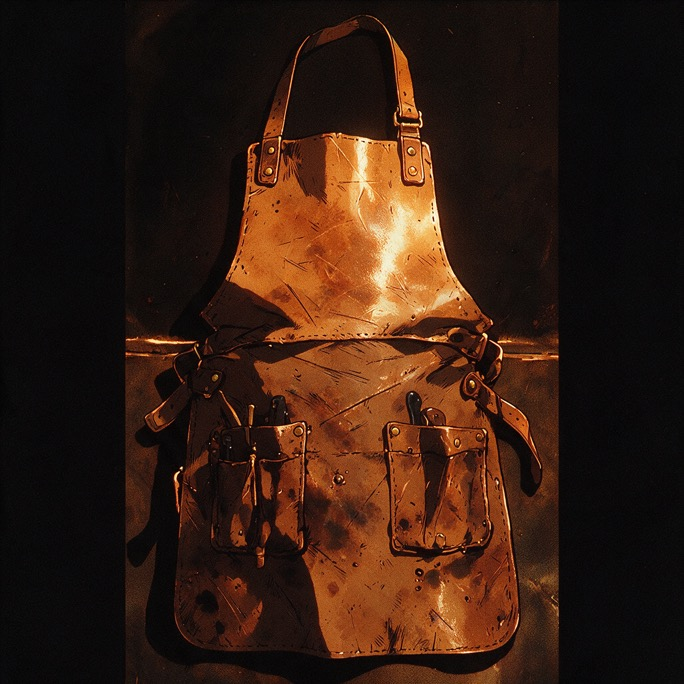
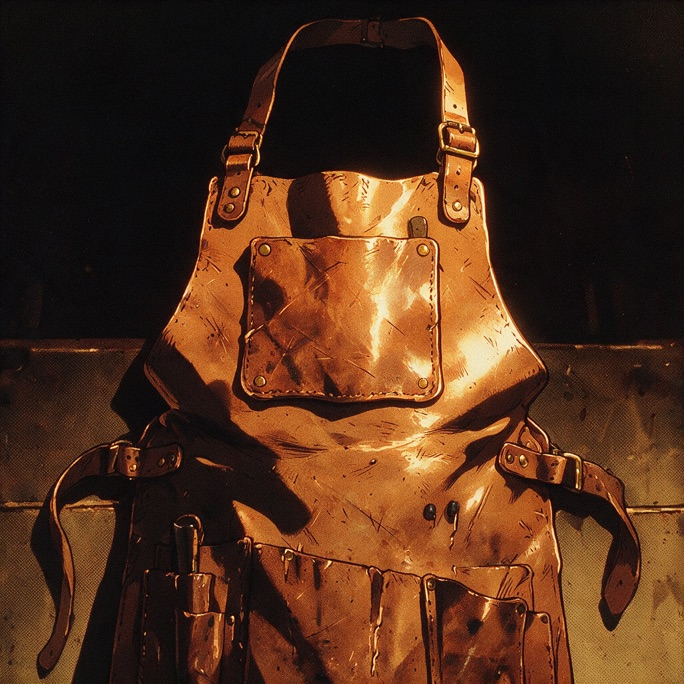
전투/PvP 개편 + 장비손실 연출 + 신규 아트
- 카드 뒷면 4종 배선(monster/item/flee/pvp_back)
- 장비 손실 연출: 글리치 제거 → 붉은 비네트 + Silk 잠식(raw WebGL 포팅, mountLossFx)
- PvP 상단 전투 카드: 콜드데이터 상대 수치 마스킹(HP ???·스탯 ??)
- PvP 승리 드로우: 항상 3장 + 뒤집을 때 pvp_win_reward_rate로 전리품 판정
- PvP 패배 = 사망 처리(귀환 실패·비장착 가방 소실), 패배 시 사토 몰수(0)
- 사망(몬스터·PvP) 귀환 시 체력 1로 생존
- PvP 하단 결과 박스 pill 시스템(box-pvp-draw)
- 신규/갱신 아트 5종(flee-Failed·가죽앞치마·모자·조끼·무기)

diff --git a/rl.dc.html b/rl.dc.html
@@ -49,6 +49,7 @@
   @keyframes rlHitFlash{0%{opacity:0}10%{opacity:1}100%{opacity:0}}
   @keyframes rlShakeScreen{0%{transform:translate(0,0)}14%{transform:translate(-6px,4px)}28%{transform:translate(6px,-4px)}42%{transform:translate(-5px,3px)}58%{transform:translate(4px,-2px)}74%{transform:translate(-2px,1px)}100%{transform:translate(0,0)}}
   @keyframes rlVignette{0%{opacity:0}18%{opacity:1}100%{opacity:0}}
+  /* --- PvP 패배: 아이템 강탈 — 붉은 비네트 + Silk 잠식은 JS/WebGL(mountLossFx)로 구동 --- */
   @keyframes rlDmgFloat{0%{opacity:0;transform:translate(-50%,8px) scale(.6)}14%{opacity:1;transform:translate(-50%,-2px) scale(1.15)}32%{opacity:1;transform:translate(-50%,-9px) scale(1)}100%{opacity:0;transform:translate(-50%,-36px) scale(1)}}
   @keyframes rlCritPop{0%{opacity:0;transform:translate(-50%,6px) scale(.4)}14%{opacity:1;transform:translate(-50%,-5px) scale(1.55)}34%{opacity:1;transform:translate(-50%,-13px) scale(1.15)}100%{opacity:0;transform:translate(-50%,-46px) scale(1.05)}}
   @keyframes rlMiss{0%{opacity:0;transform:translate(-50%,5px)}22%{opacity:1;transform:translate(-50%,-4px)}78%{opacity:.9;transform:translate(-50%,-11px)}100%{opacity:0;transform:translate(-50%,-18px)}}
@@ -324,7 +325,7 @@ class Component extends DCLogic {
         c.ups = this.eng.applyGrowth(this.gs, res.triggers);
         const full=this.eng.playerProfile(this.gs,false); this.gs.maxHp=full.maxHp;
         this.setupPvpReward(); c.phase='pvpWin';
-      } else if(res.winner==='monster'){ this.setupPvpFlee(); c.phase='pvpLose'; }
+      } else if(res.winner==='monster'){ c.satoGained=0; this.setupPvpFlee(); c.phase='pvpLose'; }  // PvP 패배 = 이번 출정 사토 몰수(사망과 동일)
       else { c.phase='timeout'; }
       this.forceUpdate(); return;
     }
@@ -361,6 +362,7 @@ class Component extends DCLogic {
   addToBag(id, qty, opts){ return this.stackAdd(this.gs.bag, id, qty, opts); }
   extract(){ if(this.combat && !this.combat.satoPaid){ this.gs.sato+=this.eng.N(this.combat.satoGained,0); this.combat.satoPaid=true; } this.setState({ screen:'result' }); this.combat.result='extract'; if(this._t){clearInterval(this._t);this._t=null;} this.forceUpdate(); }
   death(){
+    this.gs.hp = 1;   // 사망(몬스터·PvP) 귀환 시 체력 1로 생존
     // 소지품(bag)은 전부 잃되, 착용 중인 장비는 유지된다
     this.gs.bag = this.gs.bag.filter(x=>this.isEquipped(x.uid));
     const eq = [this.gs.equip.weapon,this.gs.equip.head,this.gs.equip.body,this.gs.equip.artifact1,this.gs.equip.artifact2].filter(Boolean);
@@ -710,17 +712,19 @@ class Component extends DCLogic {
       h('div',{style:{fontFamily:T.mono,fontSize:10,letterSpacing:'.14em',color:T.faint,margin:'2px 0'}}, 'STAT'),
       ...rows.map((r,i)=>h('div',{key:i,style:{display:'flex',gap:16}}, cell(r[0],r[1],r[2]), cell(r[3],r[4],r[5]))));
   }
-  combatStats(prof,pen){
+  combatStats(prof,pen,masked){
     const vc=pen?'#CB6D62':T.hi;
-    const cell=(k,v)=>h('div',{style:{flex:1,display:'flex',justifyContent:'space-between',gap:8,minWidth:0}}, h('span',{style:{color:T.lo}},k), h('span',{style:{color:vc}},v));
+    const V=(x)=>masked?'??':x;
+    const cell=(k,v)=>h('div',{style:{flex:1,display:'flex',justifyContent:'space-between',gap:8,minWidth:0}}, h('span',{style:{color:T.lo}},k), h('span',{style:{color:masked?T.mid:vc,letterSpacing:masked?'.06em':'normal'}},v));
     return h('div',{style:{display:'flex',flexDirection:'column',gap:6,fontFamily:T.mono,fontSize:11}},
-      h('div',{style:{display:'flex',gap:18}}, cell(this.t('stat_atk'), Math.round(prof.minAtk)+'~'+Math.round(prof.maxAtk)), cell(this.t('stat_def'), String(Math.round(prof.defense)))),
-      h('div',{style:{display:'flex',gap:18}}, cell(this.t('stat_atk_speed'), (prof.atkSpeed!=null?prof.atkSpeed:1).toFixed(1)), cell(this.t('stat_evasion'), Math.round(prof.evasion||0)+'%'))); }
+      h('div',{style:{display:'flex',gap:18}}, cell(this.t('stat_atk'), V(Math.round(prof.minAtk)+'~'+Math.round(prof.maxAtk))), cell(this.t('stat_def'), V(String(Math.round(prof.defense))))),
+      h('div',{style:{display:'flex',gap:18}}, cell(this.t('stat_atk_speed'), V((prof.atkSpeed!=null?prof.atkSpeed:1).toFixed(1))), cell(this.t('stat_evasion'), V(Math.round(prof.evasion||0)+'%')))); }
   combatantCard(prof,isMonster,cur,animate){
     const pct=Math.max(0,Math.min(100,cur/prof.maxHp*100));
     const md=isMonster?(this.eng.byId.monster[prof.id]||{}):null;
     const pen=!isMonster && this.combat && this.combat.staZero;
     const side=isMonster?'monster':'player';
+    const masked=isMonster && !!prof.isUser;   // PvP(콜드데이터) 상대 = 수치 마스킹
     const fx=(this.combat&&this.combat.fx&&this.combat.fx.target===side)?this.combat.fx:null;
     const isHit=!!fx&&(fx.type==='hit'||fx.type==='crit');
     return h('div',{style:{position:'relative'}},
@@ -744,8 +748,8 @@ class Component extends DCLogic {
           AT(prof.attribute)?this.statusChip(prof.attribute):null),
         h('div',{style:{display:'flex',alignItems:'center',gap:8,marginBottom:8}},
           h('div',{style:{flex:1,height:6,background:T.s3,borderRadius:99}}, h('div',{ref:el=>{ if(el && isHit && el._hp!==fx.seq){ el._hp=fx.seq; el.style.animation='none'; void el.offsetWidth; el.style.animation='rlHpGlow .5s ease-out'; } },style:{width:pct+'%',height:'100%',background:T.hp,borderRadius:99,transition:'width .3s ease-out'}})),
-          h('span',{style:{fontFamily:T.mono,fontSize:10,color:pen?'#CB6D62':T.mid,minWidth:56,textAlign:'right'}}, Math.round(cur)+'/'+prof.maxHp)),
-        this.combatStats(prof,pen))));
+          h('span',{style:{fontFamily:T.mono,fontSize:10,color:pen?'#CB6D62':T.mid,minWidth:56,textAlign:'right',letterSpacing:masked?'.06em':'normal'}}, masked?'???':(Math.round(cur)+'/'+prof.maxHp))),
+        this.combatStats(prof,pen,masked))));
   }
   combatElapsed(){ const c=this.combat; if(!c||!c.res) return 0; const r=c.res.log.slice(0,c.revealed); const last=r[r.length-1]; return last?last.t:0; }
   timeLimitBar(){ const c=this.combat; const lim=c.mProf.timeLimit||20; const rem=Math.max(0,lim-this.combatElapsed()); const pct=Math.max(0,Math.min(100,(rem/lim)*100));
@@ -1142,7 +1146,7 @@ col*=edgeFade(frag,uResolution,uOffset);col*=uIntensity;fragColor=vec4(clamp(col
               return h('div',{key:i,onClick:()=>{ if(this._moved||flipped) return; isCenter?this.flipCenter():this.focusCard(i); },
                 style:{position:'absolute',left:'50%',top:'50%',width:342,height:'min(473px, 100%)',transform:'translate(calc(-50% + '+x+'px), -50%) scale('+s+')',opacity:o,zIndex:isCenter?20:10-abs,transition:'transform .4s cubic-bezier(.16,1,.3,1),opacity .3s',cursor:flipped?'default':'pointer',perspective:'1200px',pointerEvents:(flipped&&!isCenter)?'none':'auto'}},
                 h('div',{style:{position:'relative',width:'100%',height:'100%',transformStyle:'preserve-3d',transition:'transform .55s cubic-bezier(.2,.8,.2,1)',transform:'rotateY('+rot+'deg)'}},
-                  h('div',{style:{position:'absolute',inset:0,backfaceVisibility:'hidden',WebkitBackfaceVisibility:'hidden',background:T.s2,backgroundImage:'repeating-linear-gradient(45deg, transparent 0 8px, oklch(0.235 0.008 264) 8px 9px)',border:'1px solid '+T.line2,borderRadius:8,boxShadow:'0 12px 36px rgba(0,0,0,.5)'}},
+                  h('div',{style:{position:'absolute',inset:0,backfaceVisibility:'hidden',WebkitBackfaceVisibility:'hidden',background:T.s2,backgroundImage:'url(assets/art/card_back/monster_back.jpg)',backgroundSize:'cover',backgroundPosition:'center',border:'1px solid '+T.line2,borderRadius:8,boxShadow:'0 12px 36px rgba(0,0,0,.5)'}},
                     isBossBack? h('div',{style:{position:'absolute',inset:0,pointerEvents:'none',borderRadius:8,animation:'rlBossTell 5.5s ease-in-out infinite'}}):null),
                   isCenter? h('div',{style:{position:'absolute',inset:0,backfaceVisibility:'hidden',WebkitBackfaceVisibility:'hidden',transform:'rotateY(180deg)',borderRadius:8,overflow:'hidden'}}, flipped?(c.pvp?this.userFront(c.mProf):this.monsterFront(c.mProf)):null):null)); })),
       h('div',{style:{flex:'0 0 auto',display:'flex',justifyContent:'center',gap:7,padding:'0 0 12px'}}, ...c.cards.map((id,i)=>h('div',{key:i,style:{width:7,height:7,borderRadius:99,background:i===c.cardFocus?'rgb(169,171,175)':'rgb(43,46,50)'}}))),
@@ -1198,7 +1202,7 @@ col*=edgeFade(frag,uResolution,uOffset);col*=uIntensity;fragColor=vec4(clamp(col
     h('div',{style:{position:'absolute',inset:0,background:'linear-gradient(180.32deg, rgba(24,25,29,0) 0.93%, rgb(17,19,21) 99.07%)',display:'flex',flexDirection:'column',justifyContent:'flex-end',padding:8,gap:4}},
       h('div',{style:{fontFamily:T.sans,fontSize:20,fontWeight:400,color:'rgb(234,235,238)',letterSpacing:'-0.2px',lineHeight:'100%'}}, placeTitle),
       h('div',{style:{fontFamily:T.mono,fontSize:10,letterSpacing:'1.2px',color:'rgb(111,114,118)',lineHeight:'100%'}}, 'ENCOUNTER · '+zoneName+' · '+(this.en()?('Encounter #'+(enc+1)):((enc+1)+'전 조우'))))); }
-  cardFace(){ return h('div',{style:{width:342,height:'min(442px, 100%)',borderRadius:8,background:T.s2,backgroundImage:'repeating-linear-gradient(45deg, transparent 0 8px, oklch(0.235 0.008 264) 8px 9px)',border:'1px solid '+T.line2,boxShadow:'0 12px 36px rgba(0,0,0,.5)'}}); }
+  cardFace(){ return h('div',{style:{width:342,height:'min(442px, 100%)',borderRadius:8,background:T.s2,backgroundImage:'url(assets/art/card_back/flee_back.jpg)',backgroundSize:'cover',backgroundPosition:'center',border:'1px solid '+T.line2,boxShadow:'0 12px 36px rgba(0,0,0,.5)'}}); }
   placeTitleFor(c){ const zObj=this.eng.byId.zone[c.zoneId]; const zoneName=zObj?this.tx(zObj,'ZoneName'):''; const cityObj=zObj&&this.eng.byId.city?this.eng.byId.city[zObj.CityID]:null; return {zoneName, placeTitle:(cityObj?(this.tx(cityObj,'CityName')||'')+' · ':'')+zoneName}; }
   attemptFlee(){ Object.assign(this.combat,{phase:'fleeCards', fleeFocus:1, fleeFlipped:false, fleeSuccess:null}); if(this._t){clearInterval(this._t);this._t=null;} this.forceUpdate(); }
   flipFlee(){ const c=this.combat; if(c.fleeFlipped) return; const p=this.eng.N(this.eng.DATA.config.flee_chance_base,0.9); c.fleeSuccess=Math.random()<p; c.fleeFlipped=true; this.forceUpdate();
@@ -1308,10 +1312,8 @@ col*=edgeFade(frag,uResolution,uOffset);col*=uIntensity;fragColor=vec4(clamp(col
   // 승리 → 결과 카드 round(1/pvp_win_reward_rate)장 중 1장 당첨 (복제 · 상대 무손실)
   setupPvpReward(){
     const c=this.combat;
-    const pool=this.eng.coldEquippedList(c.pvp);
-    const nCards=Math.max(1,Math.round(1/this.eng.N(this.eng.DATA.config.pvp_win_reward_rate,0.33)));
-    const prize=pool.length?pool[Math.floor(Math.random()*pool.length)]:null;
-    c.pvpCards={ kind:'win', n:nCards, hit:prize?Math.floor(Math.random()*nCards):-1, prize, picked:null, got:null, lost:null }; c.pvpFocus=Math.floor(nCards/2);
+    const n=3;   // PvP 승리 드로우 = 무조건 3장. 전리품 획득은 뒤집을 때 pvp_win_reward_rate로 판정(pickPvpCard)
+    c.pvpCards={ kind:'win', n, hit:-1, prize:null, picked:null, got:null, lost:null }; c.pvpFocus=Math.floor(n/2);
   }
   // 패배 → 도주 카드 round(1/pvp_flee_fail_rate)장 중 1장 실패 (내 착용템 1개 영구 소실)
   setupPvpFlee(){
@@ -1325,7 +1327,13 @@ col*=edgeFade(frag,uResolution,uOffset);col*=uIntensity;fragColor=vec4(clamp(col
     const c=this.combat, pc=c.pvpCards; if(!pc||pc.picked!=null) return;
     pc.picked=i;
     if(pc.kind==='win'){
-      if(i===pc.hit&&pc.prize){ const clone=this.eng.cloneGearInstance(pc.prize); this.gs.bag.push(clone); pc.got=clone; c.runLoot.push({id:clone.id,qty:1}); }
+      // 뒤집은(선택한) 카드에서 전리품 획득 여부 판정 = pvp_win_reward_rate
+      const rate=this.eng.N(this.eng.DATA.config.pvp_win_reward_rate,0.33);
+      const pool=this.eng.coldEquippedList(c.pvp)||[];
+      if(pool.length && Math.random()<rate){
+        const prize=pool[Math.floor(Math.random()*pool.length)];
+        const clone=this.eng.cloneGearInstance(prize); this.gs.bag.push(clone); pc.got=clone; pc.prize=prize; c.runLoot.push({id:clone.id,qty:1});
+      }
     } else {
       if(i===pc.hit&&pc.lossUid){
         const inst=this.eng.instById(this.gs,pc.lossUid); pc.lost=inst;
@@ -1370,7 +1378,7 @@ col*=edgeFade(frag,uResolution,uOffset);col*=uIntensity;fragColor=vec4(clamp(col
         h('div',{style:{fontFamily:T.sans,fontSize:20,fontWeight:500,color:col}}, label),
         h('div',{style:{fontFamily:T.sans,fontSize:13,color:T.mid,lineHeight:1.5,wordBreak:'keep-all'}}, sub)));
   }
-  pvpCardHeight(){ const pc=this.combat.pvpCards; if(pc&&pc.kind==='win'&&pc.got) return this.lootCardH(pc.got); return 442; }
+  pvpCardHeight(){ const pc=this.combat.pvpCards; if(pc&&pc.kind==='win'&&pc.got) return this.lootCardH(pc.got); if(pc&&pc.kind==='flee'&&pc.picked===pc.hit&&pc.lost) return this.lootCardH(pc.lost); return 442; }
   // card-action-Search-Failed (.fig 2163:8068) — PvP 전리품 획득 실패
   searchFailedCard(){
     const C1='rgb(24,25,29)', LN='rgb(54,56,60)', HI='rgb(234,235,238)', MUT='rgb(75,77,82)', SUB='rgb(165,172,178)', PVP='rgb(196,103,93)';
@@ -1385,7 +1393,89 @@ col*=edgeFade(frag,uResolution,uOffset);col*=uIntensity;fragColor=vec4(clamp(col
         h('div',{style:{height:30,alignSelf:'stretch',flexShrink:0,boxSizing:'border-box',padding:'8px 0',display:'flex',alignItems:'center'}}, h('span',{style:{fontFamily:T.mono,fontSize:10.5,lineHeight:'100%',color:MUT,whiteSpace:'nowrap'}}, this.t('search_failed_desc')))),
       h('div',{style:{width:340,height:60,flexShrink:0,boxSizing:'border-box',borderRight:'1px solid '+LN,borderBottom:'1px solid '+LN,borderLeft:'1px solid '+LN}}));
   }
-  pvpResultCardFace(i){ const pc=this.combat.pvpCards; if(pc.kind==='win'&&i===pc.hit&&pc.got) return this.lootCardBig(pc.got,true); if(pc.kind==='win') return this.searchFailedCard(); return this.pvpResultCard(i); }
+  // 패배+안뺏김 = 도주 성공 씬 카드 (flee-Success.jpg · searchFailedCard 레이아웃)
+  escapeSafeCard(){
+    const C1='rgb(24,25,29)', LN='rgb(54,56,60)', HI='rgb(234,235,238)', MUT='rgb(75,77,82)', GOOD='rgb(131,178,137)', PVP='rgb(196,103,93)';
+    return h('div',{style:{width:342,height:'min(442px, 100%)',boxSizing:'border-box',background:C1,border:'1px solid '+LN,borderRadius:8,overflow:'hidden',display:'flex',flexDirection:'column',alignItems:'flex-start'}},
+      h('div',{style:{position:'relative',flex:'1 1 auto',minHeight:60,alignSelf:'stretch',background:'#0f1013',backgroundImage:'url(assets/art/scenes/flee-Success.jpg)',backgroundSize:'cover',backgroundPosition:'center'}},
+        h('div',{style:{position:'absolute',right:17,top:15,width:38,height:20,boxSizing:'border-box',borderRadius:4,background:'rgba(10,11,14,0.55)',border:'1px solid rgba(222,222,222,0.18)',display:'flex',alignItems:'center',padding:'0 8px'}},
+          h('span',{style:{fontFamily:T.mono,fontSize:9.5,lineHeight:'100%',letterSpacing:'1.33px',color:PVP,whiteSpace:'nowrap'}}, 'PVP')),
+        h('div',{style:{position:'absolute',left:0,bottom:0,width:340,height:80,background:'linear-gradient(180deg, rgba(0,0,0,0) 0%, '+C1+' 100%)'}}),
+        h('span',{style:{position:'absolute',left:15,bottom:13,fontFamily:T.mono,fontSize:10,lineHeight:'100%',letterSpacing:'0.8px',color:GOOD,whiteSpace:'nowrap'}}, this.t('kicker_escape'))),
+      h('div',{style:{height:64,alignSelf:'stretch',flexShrink:0,boxSizing:'border-box',padding:'13px 15px',display:'flex',flexDirection:'column',alignItems:'flex-start'}},
+        h('div',{style:{height:21,alignSelf:'stretch',flexShrink:0,display:'flex',alignItems:'center'}}, h('span',{style:{fontFamily:T.sans,fontSize:17,fontWeight:500,lineHeight:'20.4px',color:HI,whiteSpace:'nowrap'}}, this.t('combat_flee_success'))),
+        h('div',{style:{height:30,alignSelf:'stretch',flexShrink:0,boxSizing:'border-box',padding:'8px 0',display:'flex',alignItems:'center'}}, h('span',{style:{fontFamily:T.mono,fontSize:10.5,lineHeight:'100%',color:MUT,whiteSpace:'nowrap'}}, this.t('combat_escaped')))),
+      h('div',{style:{width:340,height:60,flexShrink:0,boxSizing:'border-box',borderRight:'1px solid '+LN,borderBottom:'1px solid '+LN,borderLeft:'1px solid '+LN}}));
+  }
+  // 패배+뺏김 = 잃은 내 아이템 카드 + 빨간 비네트 → 글리치 소멸 연출
+  lostItemCard(inst){
+    if(!inst) return this.escapeSafeCard();
+    return h('div',{className:'pvp-loss',style:{position:'relative',width:342,height:'100%'}},
+      h('div',{className:'pvp-loss-card',style:{position:'absolute',inset:0,willChange:'opacity,filter'}}, this.lootCardBig(inst,true)),
+      h('canvas',{ref:el=>this.mountLossFx(el),style:{position:'absolute',inset:0,width:'100%',height:'100%',borderRadius:8,pointerEvents:'none',zIndex:8,opacity:0}}),
+      h('div',{className:'pvp-loss-vig',style:{position:'absolute',inset:0,pointerEvents:'none',zIndex:9,borderRadius:8,boxShadow:'inset 0 0 60px 16px rgba(196,44,40,.75)',opacity:0}}));
+  }
+  mountLossFx(el){ if(!el || el._glInit) return; el._glInit=true; try{ this._initLossFx(el); }catch(e){} }
+  _initLossFx(canvas){
+    var gl=null; try{ gl=canvas.getContext('webgl',{alpha:true,premultipliedAlpha:false,antialias:true})||canvas.getContext('experimental-webgl'); }catch(e){ return; }
+    if(!gl) return;
+    var dpr=Math.min((window.devicePixelRatio||1),2);
+    var VERT='attribute vec2 p;varying vec2 vUv;void main(){vUv=p*0.5+0.5;gl_Position=vec4(p,0.0,1.0);}';
+    var FRAG=`precision highp float;
+varying vec2 vUv;
+uniform float uTime;uniform vec3 uColor;uniform float uSpeed;uniform float uScale;uniform float uRotation;uniform float uNoiseIntensity;uniform float uReveal;
+const float e=2.71828182845904523536;
+float noise(vec2 texCoord){float G=e;vec2 r=(G*sin(G*texCoord));return fract(r.x*r.y*(1.0+texCoord.x));}
+vec2 rotateUvs(vec2 uv,float angle){float c=cos(angle);float s=sin(angle);mat2 rot=mat2(c,-s,s,c);return rot*uv;}
+void main(){
+  float rnd=noise(gl_FragCoord.xy);
+  vec2 uv=rotateUvs(vUv*uScale,uRotation);
+  vec2 tex=uv*uScale;
+  float tOffset=uSpeed*uTime;
+  tex.y+=0.03*sin(8.0*tex.x-tOffset);
+  float pattern=0.6+0.4*sin(5.0*(tex.x+tex.y+cos(3.0*tex.x+5.0*tex.y)+0.02*tOffset)+sin(20.0*(tex.x+tex.y-0.1*tOffset)));
+  vec3 rgb=uColor*pattern-rnd/15.0*uNoiseIntensity;
+  float thr=mix(1.16,0.06,uReveal);
+  float a=smoothstep(thr-0.16,thr+0.16,pattern);
+  a=clamp(a-rnd*0.10*(1.0-uReveal),0.0,1.0);
+  gl_FragColor=vec4(rgb,a);
+}`;
+    function mk(t,s){var sh=gl.createShader(t);gl.shaderSource(sh,s);gl.compileShader(sh);return gl.getShaderParameter(sh,gl.COMPILE_STATUS)?sh:null;}
+    var vs=mk(gl.VERTEX_SHADER,VERT), fs=mk(gl.FRAGMENT_SHADER,FRAG); if(!vs||!fs) return;
+    var prog=gl.createProgram();gl.attachShader(prog,vs);gl.attachShader(prog,fs);gl.linkProgram(prog);
+    if(!gl.getProgramParameter(prog,gl.LINK_STATUS)) return;
+    gl.useProgram(prog);
+    var buf=gl.createBuffer();gl.bindBuffer(gl.ARRAY_BUFFER,buf);gl.bufferData(gl.ARRAY_BUFFER,new Float32Array([-1,-1,3,-1,-1,3]),gl.STATIC_DRAW);
+    var loc=gl.getAttribLocation(prog,'p');gl.enableVertexAttribArray(loc);gl.vertexAttribPointer(loc,2,gl.FLOAT,false,0,0);
+    var U={};['uTime','uColor','uSpeed','uScale','uRotation','uNoiseIntensity','uReveal'].forEach(function(n){U[n]=gl.getUniformLocation(prog,n);});
+    gl.uniform3f(U.uColor,0.86,0.19,0.16);gl.uniform1f(U.uSpeed,2.5);gl.uniform1f(U.uScale,1.0);gl.uniform1f(U.uRotation,0.0);gl.uniform1f(U.uNoiseIntensity,1.5);gl.uniform1f(U.uReveal,0.0);
+    function size(){var w=canvas.clientWidth||342,hh=canvas.clientHeight||460;canvas.width=Math.max(1,Math.round(w*dpr));canvas.height=Math.max(1,Math.round(hh*dpr));gl.viewport(0,0,canvas.width,canvas.height);}
+    size();
+    var wrap=canvas.parentElement;
+    var cardEl=wrap?wrap.querySelector('.pvp-loss-card'):null, vigEl=wrap?wrap.querySelector('.pvp-loss-vig'):null;
+    var uTime=0,last=0,start=0,raf=0,LEAD=560;
+    function clamp(x){return x<0?0:(x>1?1:x);}
+    function seg(t,a,b){return clamp((t-a)/(b-a));}
+    function ease(x){return x*x*(3.0-2.0*x);}
+    function stop(){ try{cancelAnimationFrame(raf);var ext=gl.getExtension('WEBGL_lose_context');if(ext)ext.loseContext();}catch(_){} }
+    function frame(now){
+      if(!canvas.isConnected){ stop(); return; }
+      raf=requestAnimationFrame(frame);
+      if(!last){last=now;start=now;}
+      var dt=(now-last)/1000; last=now;
+      if(canvas.clientWidth>0 && canvas.width!==Math.round(canvas.clientWidth*dpr)) size();
+      uTime+=0.6*dt;
+      gl.uniform1f(U.uTime,uTime); gl.drawArrays(gl.TRIANGLES,0,3);
+      var el=(now-start)-LEAD; if(el<0) el=0;
+      var vg=Math.min(seg(el,0,500),1-seg(el,2700,3550)); if(vigEl) vigEl.style.opacity=vg.toFixed(3);
+      var so=Math.min(seg(el,350,900),1-seg(el,2700,3550)); canvas.style.opacity=so.toFixed(3);
+      var rev=ease(seg(el,550,2500)); gl.uniform1f(U.uReveal,rev);
+      if(cardEl){ cardEl.style.opacity=(1-ease(seg(el,750,2450))).toFixed(3); cardEl.style.filter='saturate('+(1-0.45*rev).toFixed(3)+') brightness('+(1-0.32*rev).toFixed(3)+')'; }
+      if(el>3650){ stop(); }
+    }
+    raf=requestAnimationFrame(frame);
+  }
+  pvpResultCardFace(i){ const pc=this.combat.pvpCards; if(pc.kind==='win') return pc.got? this.lootCardBig(pc.got,true) : this.searchFailedCard(); if(pc.kind==='flee'&&i===pc.hit&&pc.lossUid) return this.lostItemCard(pc.lost); return this.escapeSafeCard(); }
   pvpResultScreen(){
     const c=this.combat, pc=c.pvpCards, win=pc.kind==='win';
     const zoneName=this.eng.byId.zone[c.zoneId]?this.tx(this.eng.byId.zone[c.zoneId],'ZoneName'):'';
@@ -1404,11 +1494,13 @@ col*=edgeFade(frag,uResolution,uOffset);col*=uIntensity;fragColor=vec4(clamp(col
             return h('div',{key:i,onClick:()=>{ if(this._pmoved||pc.picked!=null) return; isCenter?this.flipPvp():this.focusPvp(i); },
               style:{position:'absolute',left:'50%',top:'50%',width:342,height:ch,transform:'translate(calc(-50% + '+x+'px), -50%) scale('+s+')',opacity:o,zIndex:isCenter?20:10-abs,transition:'transform .4s cubic-bezier(.16,1,.3,1),opacity .3s',cursor:pc.picked!=null?'default':'pointer',perspective:'1200px',pointerEvents:(done&&!flippedThis)?'none':'auto'}},
               h('div',{style:{position:'relative',width:'100%',height:'100%',transformStyle:'preserve-3d',transition:'transform .55s cubic-bezier(.2,.8,.2,1)',transform:'rotateY('+rot+'deg)'}},
-                h('div',{style:{position:'absolute',inset:0,backfaceVisibility:'hidden',WebkitBackfaceVisibility:'hidden',background:T.s2,backgroundImage:'repeating-linear-gradient(45deg, transparent 0 8px, oklch(0.235 0.008 264) 8px 9px)',border:'1px solid '+T.line2,borderRadius:8,boxShadow:'0 12px 36px rgba(0,0,0,.5)'}}),
+                h('div',{style:{position:'absolute',inset:0,backfaceVisibility:'hidden',WebkitBackfaceVisibility:'hidden',background:T.s2,backgroundImage:'url(assets/art/card_back/pvp_back.jpg)',backgroundSize:'cover',backgroundPosition:'center',border:'1px solid '+T.line2,borderRadius:8,boxShadow:'0 12px 36px rgba(0,0,0,.5)'}}),
                 flippedThis? h('div',{style:{position:'absolute',inset:0,backfaceVisibility:'hidden',WebkitBackfaceVisibility:'hidden',transform:'rotateY(180deg)',borderRadius:8,overflow:'hidden'}}, this.pvpResultCardFace(i)):null)); })),
       !done? h('div',{style:{flex:'0 0 auto',display:'flex',justifyContent:'center',gap:7,padding:'0 0 14px'}}, ...Array.from({length:pc.n}).map((_,i)=>h('div',{key:i,style:{width:7,height:7,borderRadius:99,background:i===focus?T.mid:T.s3}}))) : null,
-      done? h('div',{style:{flex:'0 0 auto',padding:'12px 16px 16px',borderTop:'1px solid '+T.line,background:T.s1,display:'flex',gap:10}},
-        win?btn(this.t('btn_continue'),()=>this.drawCards()):null, btn(this.t('btn_return'),()=>this.extract(),!win)) : null);
+      done? h('div',{style:{flex:'0 0 auto',padding:'0 16px 26px'}},
+        h('div',{style:{background:'#18191D',border:'1px solid #36383C',borderRadius:24,padding:24,display:'flex',gap:8}},
+          win?h('button',{onClick:()=>this.drawCards(),style:{flex:1,height:48,boxSizing:'border-box',borderRadius:999,border:'none',background:'#212227',color:'#EAEBEE',fontFamily:T.sans,fontSize:12,fontWeight:400,cursor:'pointer'}}, this.t('btn_continue')):null,
+          h('button',{onClick:()=>{ win?this.extract():this.death(); },style:{flex:1,height:48,boxSizing:'border-box',borderRadius:999,border:'none',background:'#212227',color:win?'#EAEBEE':'#C4675D',fontFamily:T.sans,fontSize:12,fontWeight:400,cursor:'pointer'}}, this.t('btn_return')))) : null);
   }
   pvpControls(){
     const c=this.combat, pc=c.pvpCards;
@@ -1422,7 +1514,7 @@ col*=edgeFade(frag,uResolution,uOffset);col*=uIntensity;fragColor=vec4(clamp(col
       h('div',{style:{marginBottom:10,fontFamily:T.mono,fontSize:11,color:col,lineHeight:1.5}}, msg),
       (win&&c.ups.length)?h('div',{style:{marginBottom:10,fontFamily:T.mono,fontSize:11,color:T.growth}}, (this.t('frag_growth')+' ')+c.ups.map(u=>({str:this.t('stat_str'),dex:this.t('stat_dex'),vit:this.t('stat_vit'),will:this.t('stat_will')}[u.stat]+' Lv'+u.to)).join(' · ')):null,
       this.pvpCardRow(),
-      done? h('div',{style:{display:'flex',gap:10}}, win?btn(this.t('btn_continue'),()=>this.drawCards()):null, btn(this.t('btn_return'),()=>this.extract(),!win)) : null);
+      done? h('div',{style:{display:'flex',gap:10}}, win?btn(this.t('btn_continue'),()=>this.drawCards()):null, btn(this.t('btn_return'),()=>{ win?this.extract():this.death(); },!win)) : null);
   }
 
   // ---- USB 성장 (미스터 박 · vendor_usb_tech · usbload 플로우) ----
@@ -1879,7 +1971,7 @@ col*=edgeFade(frag,uResolution,uOffset);col*=uIntensity;fragColor=vec4(clamp(col
           return h('div',{key:uid,onClick:()=>{ if(this._lmoved) return; if(!isCenter){ this.lootFocus(i); return; } if(!flipped) this.lootFlipOne(i); },
             style:{position:'absolute',left:'50%',top:'50%',width:342,height:ch,transform:'translate(calc(-50% + '+(x*fit)+'px), -50%) scale('+s+')',opacity:o,zIndex:isCenter?20:10-abs,transition:'transform .4s cubic-bezier(.16,1,.3,1),opacity .3s',cursor:'pointer',perspective:'1200px',pointerEvents:abs>1?'none':'auto'}},
             h('div',{style:{position:'relative',width:'100%',height:'100%',transformStyle:'preserve-3d',transition:'transform .55s cubic-bezier(.2,.8,.2,1)',transform:'rotateY('+rot+'deg)'}},
-              h('div',{style:{position:'absolute',inset:0,backfaceVisibility:'hidden',WebkitBackfaceVisibility:'hidden',background:T.s2,backgroundImage:'repeating-linear-gradient(45deg, transparent 0 8px, oklch(0.235 0.008 264) 8px 9px)',border:'1px solid '+T.line2,borderRadius:8,boxShadow:'0 12px 36px rgba(0,0,0,.5)'}}),
+              h('div',{style:{position:'absolute',inset:0,backfaceVisibility:'hidden',WebkitBackfaceVisibility:'hidden',background:T.s2,backgroundImage:'url(assets/art/card_back/item_back.jpg)',backgroundSize:'cover',backgroundPosition:'center',border:'1px solid '+T.line2,borderRadius:8,boxShadow:'0 12px 36px rgba(0,0,0,.5)'}}),
               h('div',{style:{position:'absolute',inset:0,backfaceVisibility:'hidden',WebkitBackfaceVisibility:'hidden',transform:'rotateY(180deg)',borderRadius:8,overflow:'auto'}}, flipped?this.lootCardBig(inst,true):null))); })),
       !allOpen? h('div',{style:{flex:'0 0 auto',display:'flex',justifyContent:'center',gap:7,padding:'0 0 10px'}}, ...uids.map((_,i)=>h('div',{key:i,style:{width:7,height:7,borderRadius:99,background:i===focus?T.mid:(open.has(i)?T.line2:T.s3)}}))) : null,
       h('div',{style:{flex:'0 0 auto',padding:'0 16px 22px'}},
